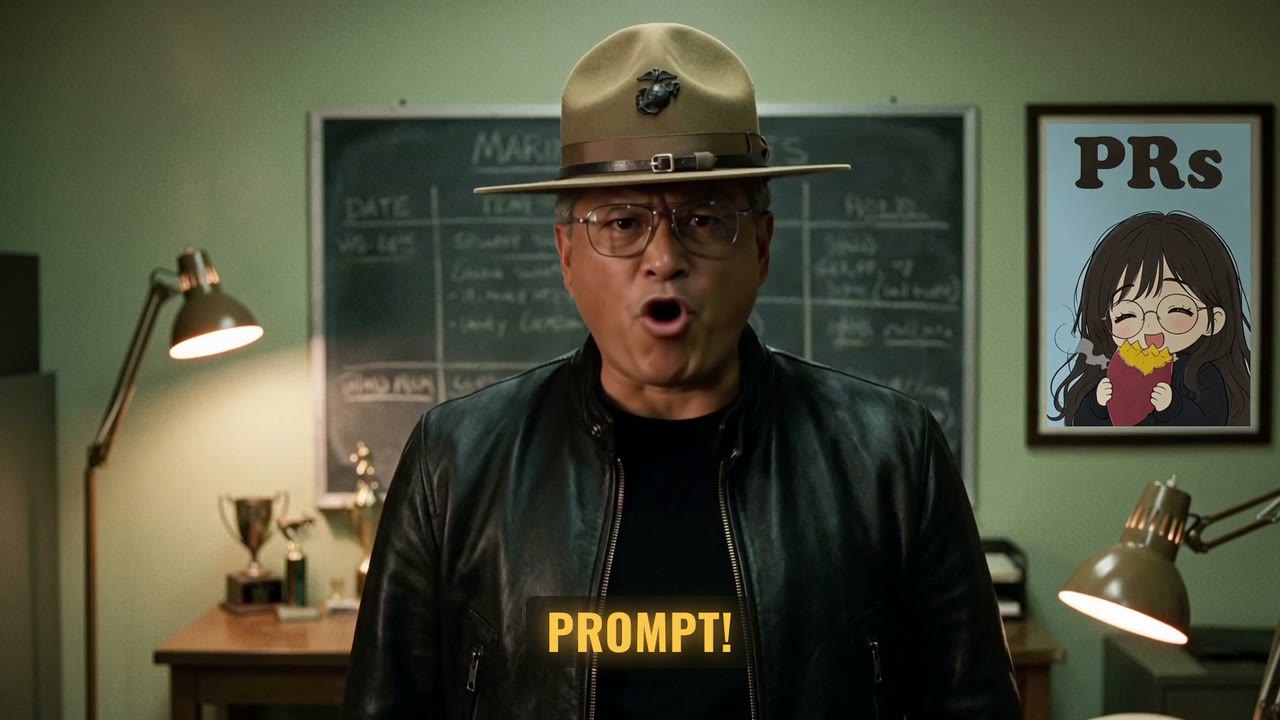
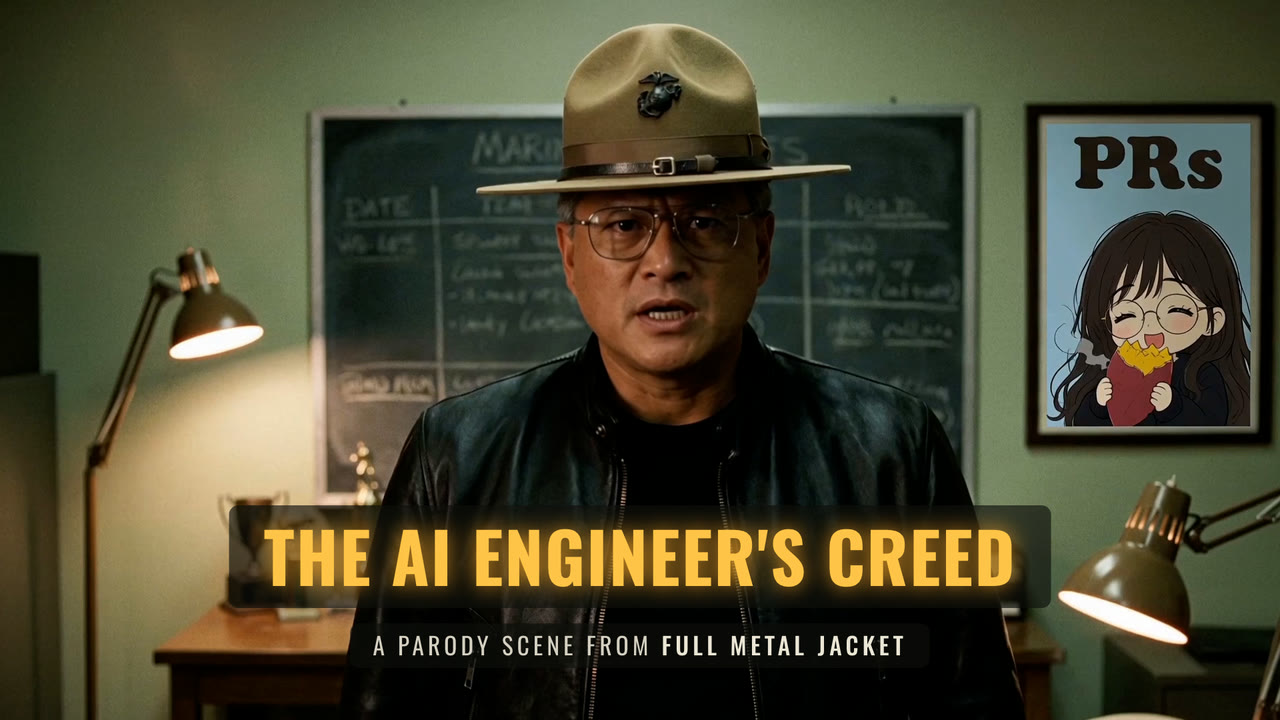
Back up the generative cut's approved clips to R2
scripts/backup.py uploads the clip each shot of the fully generative cut
uses, content-addressed under my-software-factory/, and restores them on a
fresh clone from the committed manifest (data/backup.json), checking each
hash. The lip sync cut's clips are the film's footage and stay off the
public bucket.

diff --git a/captions/compositions/title.html b/captions/compositions/title.html
@@ -1,0 +1,58 @@
+<!doctype html>
+<html lang="en">
+  <head>
+    <meta charset="UTF-8" />
+    <meta name="viewport" content="width=1920, height=1080" />
+    <script src="https://cdn.jsdelivr.net/npm/gsap@3.14.2/dist/gsap.min.js"></script>
+    <!-- The title frame and poster: the first frame of S07 with the title in the captions' own treatment (the dark band,
+         Oswald in capitals, the gold glow of a lit word), as two caption lines: the title fully lit, the subtitle beneath.
+         `npm run title` takes the background from the cut (assets/title-bg.png) and renders this to
+         ../renders/full/title.png, which scripts/full.py puts on the cut's first frame, and to ../docs/poster.jpg. -->
+    <style>
+      * { margin: 0; padding: 0; box-sizing: border-box; }
+      html, body { margin: 0; width: 1920px; height: 1080px; overflow: hidden; background: #000; }
+      #root { position: relative; width: 100%; height: 100%; font-family: "Oswald", sans-serif; }
+      #bg { position: absolute; inset: 0; width: 100%; height: 100%; }
+      /* the caption band (captions/build.mjs) */
+      .band {
+        position: absolute;
+        left: 50%;
+        transform: translateX(-50%);
+        display: flex;
+        border-radius: 14px;
+        background: rgba(13, 14, 11, 0.66);
+        font-weight: 700;
+        line-height: 1.12;
+        letter-spacing: 0.02em;
+        text-transform: uppercase;
+        white-space: nowrap;
+      }
+      .title {
+        bottom: 168px;
+        padding: 16px 52px 22px;
+        font-size: 104px;
+        color: rgb(255, 196, 72);
+        text-shadow: 0 0 32px rgba(255, 170, 40, 0.85);
+      }
+      .subtitle {
+        bottom: 78px;
+        padding: 12px 34px 15px;
+        font-size: 36px;
+        font-weight: 400;
+        letter-spacing: 0.16em;
+        color: rgb(214, 208, 194);
+      }
+      .subtitle em { font-style: normal; font-weight: 500; color: rgb(236, 230, 214); }
+    </style>
+  </head>
+  <body>
+    <div id="root" data-composition-id="title" data-start="0" data-duration="1" data-width="1920" data-height="1080" data-fps="1">
+      <img id="bg" class="clip" src="../assets/title-bg.png" alt="" data-start="0" data-duration="1" data-track-index="0" />
+      <div class="band title">The AI Engineer's Creed</div>
+      <div class="band subtitle"><span>A parody scene from <em>Full Metal Jacket</em></span></div>
+    </div>
+    <script>
+      window.__timelines["title"] = gsap.timeline({ paused: true });
+    </script>
+  </body>
+</html>

diff --git a/scripts/backup.py b/scripts/backup.py
@@ -1,0 +1,140 @@
+"""Back up the paid generated clips the final cuts are built from to R2, and restore them on a fresh clone.
+
+Only the approved clip each shot of a backed-up cut actually uses (scripts/full.py sources) is kept: content-addressed
+(<sha256>.mp4) under my-software-factory/ in the S3_BUCKET_NAME bucket, served from S3_PUBLIC_URL. The manifest,
+data/backup.json, is committed: it maps each local path to its URL, size and hash, so restoring needs no keys.
+
+Only the fully generative cut is backed up. The lip sync cut's clips are the film's own footage, which stays off
+public hosting, like everything copyrighted in this project.
+
+  uv run --group analysis --group voice --group gen python scripts/backup.py upload --env <file with S3_* keys>
+  uv run python scripts/backup.py restore        # download any backed-up clip missing locally, checking its hash
+"""
+
+import datetime
+import hashlib
+import hmac
+import json
+import os
+import sys
+import time
+import urllib.error
+import urllib.request
+from pathlib import Path
+from urllib.parse import quote, urlparse
+
+ROOT = Path(__file__).resolve().parent.parent
+MANIFEST = ROOT / "data" / "backup.json"
+PREFIX = "my-software-factory"
+CUTS = ("generative",)
+UA = {"user-agent": "my-software-factory-backup/1.0"}  # the CDN turns away Python's default user agent
+
+
+def sha256(path: Path) -> str:
+  h = hashlib.sha256()
+  with path.open("rb") as f:
+    for chunk in iter(lambda: f.read(1 << 20), b""):
+      h.update(chunk)
+  return h.hexdigest()
+
+
+def load_env(path: str) -> None:
+  for line in Path(path).expanduser().read_text().splitlines():
+    name, sep, value = line.strip().removeprefix("export ").partition("=")
+    if sep and name.startswith("S3_"):
+      os.environ.setdefault(name.strip(), value.strip().strip("\"'"))
+
+
+def env(name: str) -> str:
+  value = os.environ.get(name, "").strip()
+  if not value:
+    sys.exit(f"{name} is not set (pass --env <file>)")
+  return value
+
+
+def put(key: str, path: Path, digest: str) -> None:
+  """S3 PUT signed with AWS Signature V4 (R2 speaks S3), stdlib only."""
+  endpoint, bucket = env("S3_API_ENDPOINT").rstrip("/"), env("S3_BUCKET_NAME")
+  region = os.environ.get("S3_REGION", "").strip() or "auto"
+  now = datetime.datetime.now(datetime.UTC)
+  stamp, day = now.strftime("%Y%m%dT%H%M%SZ"), now.strftime("%Y%m%d")
+  url_path = f"/{bucket}/{quote(key)}"
+  headers = {
+    "cache-control": "public, max-age=31536000, immutable",  # content-addressed: a key never changes
+    "content-type": "video/mp4",
+    "host": urlparse(endpoint).netloc,
+    "x-amz-content-sha256": digest,
+    "x-amz-date": stamp,
+  }
+  signed = ";".join(sorted(headers))
+  canonical = "\n".join(["PUT", url_path, "", *(f"{k}:{headers[k]}" for k in sorted(headers)), "", signed, digest])
+  scope = f"{day}/{region}/s3/aws4_request"
+  to_sign = "\n".join(["AWS4-HMAC-SHA256", stamp, scope, hashlib.sha256(canonical.encode()).hexdigest()])
+  k = f"AWS4{env('S3_SECRET_ACCESS_KEY')}".encode()
+  for part in (day, region, "s3", "aws4_request"):
+    k = hmac.new(k, part.encode(), hashlib.sha256).digest()
+  signature = hmac.new(k, to_sign.encode(), hashlib.sha256).hexdigest()
+  headers["authorization"] = (f"AWS4-HMAC-SHA256 Credential={env('S3_ACCESS_KEY_ID')}/{scope}, "
+                              f"SignedHeaders={signed}, Signature={signature}")
+  req = urllib.request.Request(endpoint + url_path, data=path.read_bytes(), method="PUT", headers=headers)
+  with urllib.request.urlopen(req, timeout=300) as res:
+    if res.status != 200:
+      sys.exit(f"{key}: upload failed ({res.status})")
+
+
+def public_size(url: str, tries: int = 1) -> int | None:
+  """Size of the public copy, or None; the query keeps a cached 404 from before the upload out of the answer."""
+  for attempt in range(tries):
+    try:
+      req = urllib.request.Request(f"{url}?check={time.time_ns()}", method="HEAD", headers=UA)
+      with urllib.request.urlopen(req, timeout=60) as res:
+        return int(res.headers.get("content-length", -1))
+    except urllib.error.HTTPError:
+      time.sleep(2 * (attempt + 1))
+  return None
+
+
+def upload() -> None:
+  sys.path.insert(0, str(ROOT / "scripts"))
+  import full
+
+  base = env("S3_PUBLIC_URL").rstrip("/")
+  manifest = json.loads(MANIFEST.read_text()) if MANIFEST.exists() else {}
+  for cut in CUTS:
+    for shot, path in full.sources(cut).items():
+      rel = path.relative_to(ROOT).as_posix()
+      digest, size = sha256(path), path.stat().st_size
+      url = f"{base}/{PREFIX}/{digest}{path.suffix}"
+      if public_size(url) != size:
+        put(f"{PREFIX}/{digest}{path.suffix}", path, digest)
+        if public_size(url, tries=4) != size:
+          sys.exit(f"{url}: the public copy doesn't match the {size} bytes uploaded")
+        print(f"uploaded {rel} -> {url}")
+      else:
+        print(f"already there: {rel}")
+      manifest[rel] = {"cut": cut, "shot": shot, "url": url, "bytes": size, "sha256": digest}
+  MANIFEST.write_text(json.dumps(dict(sorted(manifest.items())), indent=1) + "\n")
+  print(f"{len(manifest)} clips in {MANIFEST.relative_to(ROOT)}")
+
+
+def restore() -> None:
+  for rel, entry in json.loads(MANIFEST.read_text()).items():
+    dest = ROOT / rel
+    if dest.exists() and dest.stat().st_size == entry["bytes"]:
+      continue
+    dest.parent.mkdir(parents=True, exist_ok=True)
+    part = dest.with_name(dest.name + ".part")  # written aside, so an interrupted run never leaves a partial clip
+    with urllib.request.urlopen(urllib.request.Request(entry["url"], headers=UA), timeout=300) as res:
+      part.write_bytes(res.read())
+    if sha256(part) != entry["sha256"]:
+      part.unlink()
+      sys.exit(f"{rel}: download doesn't match its hash")
+    part.rename(dest)
+    print(f"restored {rel}")
+
+
+if __name__ == "__main__":
+  args = sys.argv[1:]
+  if "--env" in args:
+    load_env(args[args.index("--env") + 1])
+  {"upload": upload, "restore": restore}[args[0] if args else "restore"]()

diff --git a/contributing.md b/contributing.md
@@ -73,6 +73,7 @@ Each fal call costs money, so review the keyframe before animating.
 | Drill instructor and fire watch lines | `scripts/di.py`, `scripts/fish.py`, `scripts/eleven.py`, `scripts/firewatch.py` | `data/di*.json`, `data/voices.json` |
 | Jensen voice reference | `scripts/voice_ref.py`, `scripts/jensen_ref.py` | `reference/voice/jensen/` |
 | fal calls (cached, cost-logged) | `scripts/fal_run.py` | `data/fal-log.jsonl` |
+| R2 backup of the generative cut's clips | `scripts/backup.py` | `data/backup.json` |
 | Cast sheets | `scripts/cast.py` | `media/cast/` |
 | Shots, keyframes, lip sync, both cuts | `scripts/full.py` (`scripts/variants.py` for the S07/S08 tests) | `renders/full/` |
 | Credits card | `captions/compositions/credits-card.html`, `scripts/credits.py` | `renders/full/credits.mp4` |
@@ -98,5 +99,6 @@ tests/       offline checks on data/ and captions/
 ## Not in the repo
 
 - `media/`, `reference/`, `transcript/`: the copyrighted source clip and its stems and transcripts, the cast's photos and the voice references, plus every generated take. Never commit them, and never write the film's dialogue into tracked files: refer to its lines by id with a paraphrased gist.
+- The approved clip behind each shot of the fully generative cut is backed up to R2 (paid fal output, otherwise only on one disk). `uv run python scripts/backup.py restore` downloads any that are missing, checked against `data/backup.json`; no keys needed. `backup.py upload --env <file>` adds new ones with the `S3_*` keys. The lip sync cut's clips are the film's footage, so they stay off the public bucket.
 - `renders/`, `frames/`, `review/dist/`, `captions/renders/`, `captions/assets/`, `promo/.review/`: regenerable output. Review pages embed film frames, so they stay local.
 - `.claude/skills/`: HyperFrames' project skills; `npx hyperframes skills update` reinstalls them.

diff --git a/docs/decisions.md b/docs/decisions.md
@@ -240,3 +240,4 @@ The author's calls. They override the research in `docs/plan.md`.
   - **swyx:** the author's 900 px copy of his picture replaces the 460 px GitHub one.
   - **The card moved to HyperFrames** (author's call), replacing `credits.py`'s own headless-Chrome screenshot loop. That loop kept breaking under load: two captures sharing a Chrome profile abort on its lock. The card is now `captions/compositions/credits-card.html`, with its animations on a seekable GSAP timeline and Inter for the system font. `npm run credits` renders it in about 14 s (the old loop took about 5 min), and it can be edited in Studio like the captions. `credits.py` now only prepares the pictures and then calls that render.
 - **S10 in the cut was still the sync-3 take (round 7, author):** the approved H3 Lip Sync blend had been written over `S10-r6-ls.mp4`, but the cut's steady and conformed copies were cached under that same name and kept serving the earlier sync-3 version. Derived clips now rebuild whenever their source is newer (`variants.fresh`, used by `conform`, `steady` and `trim_head`). No other shot was stale. The credits' "Made with" line is a size up (24 px).
+- **Backups (author's call):** only the approved clip each shot of the fully generative cut actually uses goes to R2: 10 clips, about 100 MB, content-addressed under `my-software-factory/` (`scripts/backup.py`, manifest `data/backup.json`). Each was verified by sha256 against its public copy. The lip sync cut's clips are the film's own footage, and the bucket is served publicly, so they are not uploaded.

diff --git a/AGENTS.md b/AGENTS.md
@@ -60,3 +60,4 @@ This Is My Software Factory: a parody of the Full Metal Jacket barracks creed sc
 - The storyboard pulls the original lines from `/transcript` at build time, so its output stays in the ignored `/review/dist`.
 - Frames, renders and review pages (`/frames`, `/renders`, `/review/dist`) are derived and ignored.
 - `.gitignore` also blocks audio and video by extension.
+- The fully generative cut's approved clips are backed up to R2 (`scripts/backup.py`, manifest `data/backup.json`). After approving a new take for a shot, run `backup.py upload` again.
